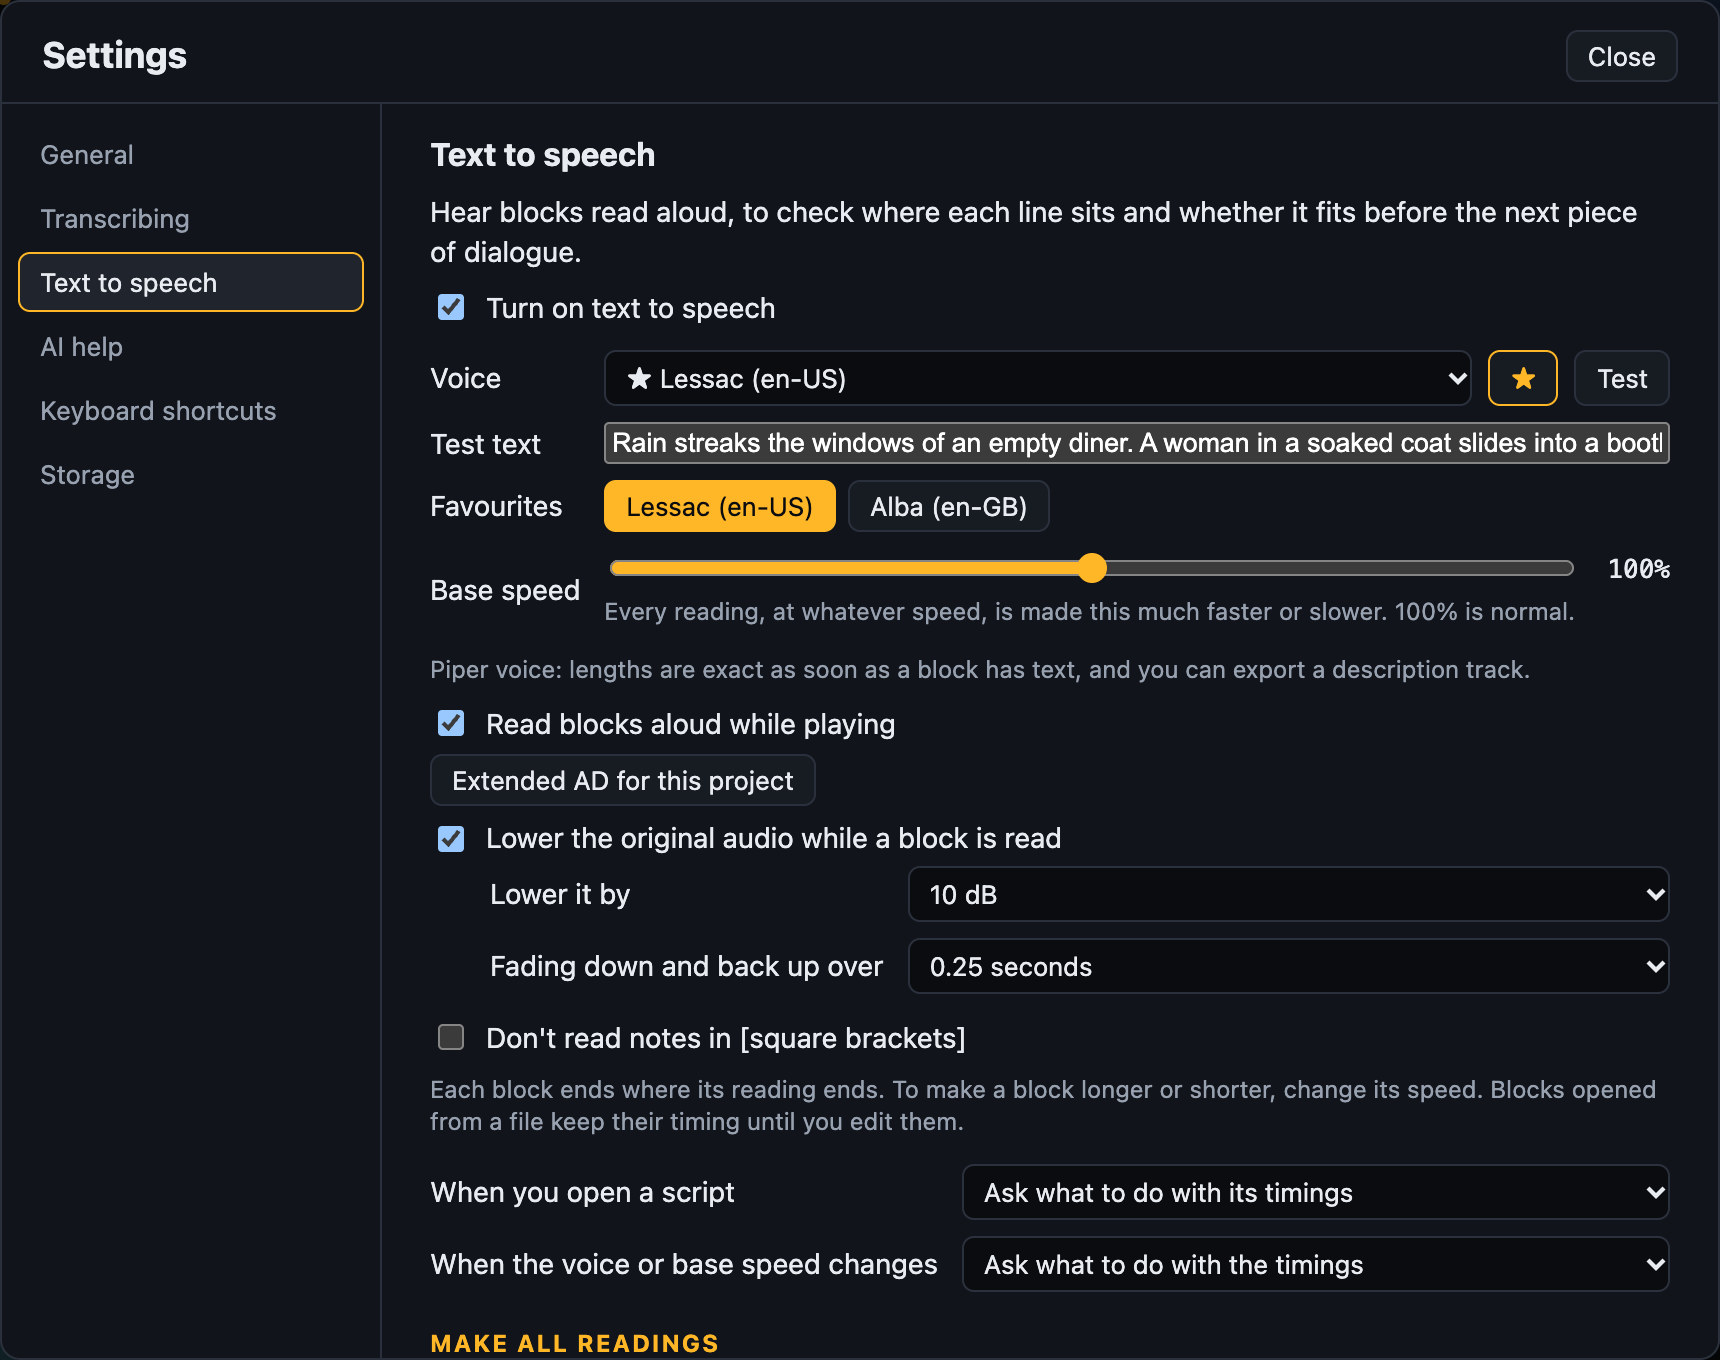
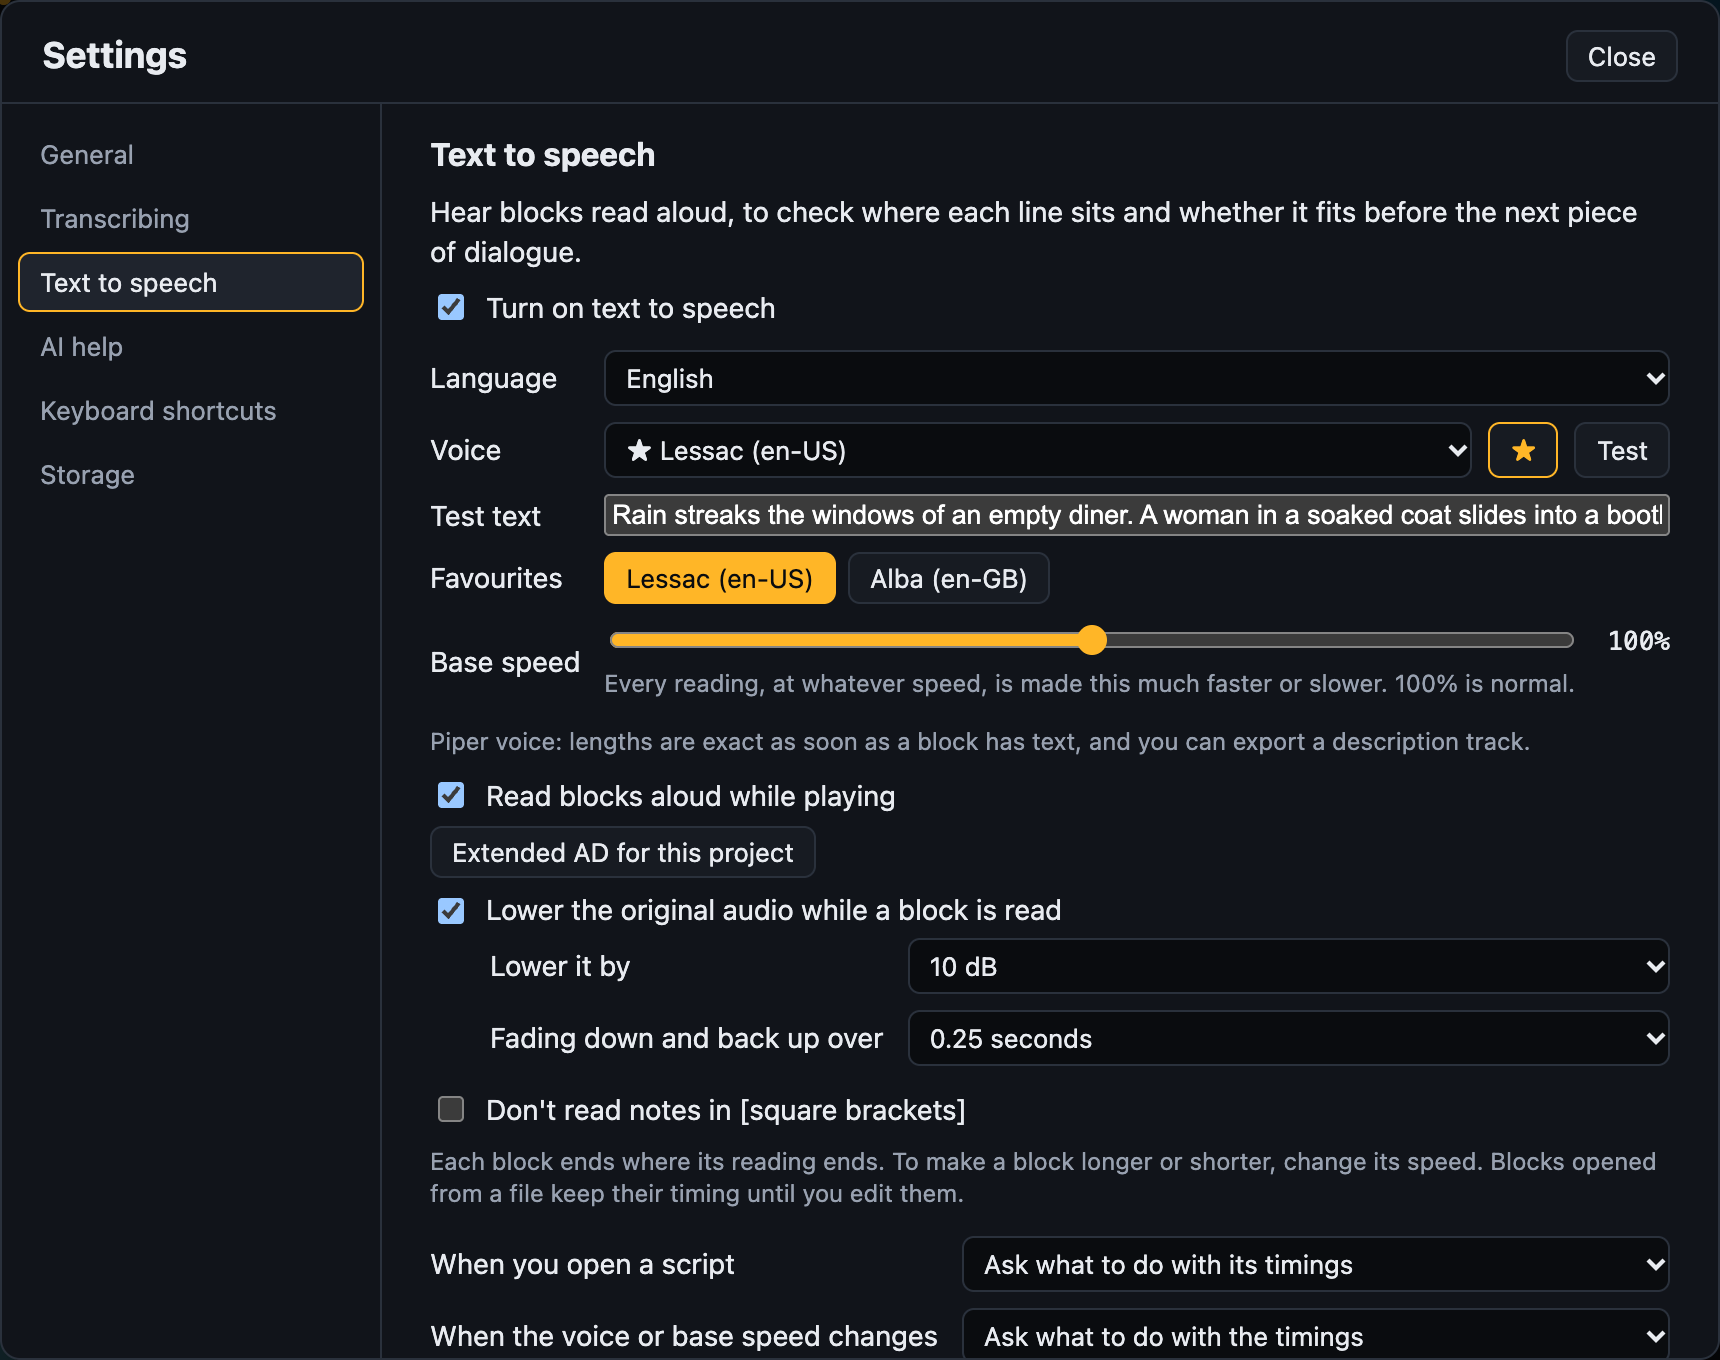
Filter voices by language, English first
A Language menu in Text to speech settings narrows the voice list and the
Piper downloads. It starts on English; favourites and the chosen voice
always show.

diff --git a/app/js/tts.js b/app/js/tts.js
@@ -200,6 +200,22 @@ export const toggleFavourite = (favs, uri) => (favs.includes(uri) ? favs.filter(
 // running, no Google or AWS key, online voices off, or not in this browser).
 export const favouriteVoices = (favs, voices) => favs.map((uri) => ({ uri, voice: voices.find((v) => v.voiceURI === uri) || null }));
 
+// A voice's language, without its country: "en" for en-GB and en_US.
+export const baseLang = (v) => String(v?.lang || '').toLowerCase().split(/[-_]/)[0];
+const langNames = (() => { try { return new Intl.DisplayNames(['en'], { type: 'language' }); } catch { return null; } })();
+export const languageName = (code) => { try { return langNames?.of(code) || code; } catch { return code; } };
+// The languages among some voices, for the Language menu: [{ code, name, count }], the
+// user's own first, then by name.
+export function voiceLanguages(voices, lang = 'en') {
+  const mine = String(lang).toLowerCase().split(/[-_]/)[0];
+  const counts = new Map();
+  for (const v of voices) { const c = baseLang(v); if (c) counts.set(c, (counts.get(c) || 0) + 1); }
+  return [...counts].map(([code, count]) => ({ code, name: languageName(code), count }))
+    .sort((a, b) => (b.code === mine) - (a.code === mine) || a.name.localeCompare(b.name));
+}
+// Voices in a language ('' for all). The one chosen stays, so the menu can still show it.
+export const inLanguage = (voices, code, keep = '') => (code ? voices.filter((v) => baseLang(v) === code || v.voiceURI === keep) : voices);
+
 // Voices that make their readings as audio, Piper's, Kokoro's, Google's and Polly's: lengths are
 // exact, and a description track can be exported.
 export const makesAudio = (v) => !!(v?.piper || v?.kokoro || v?.google || v?.polly);
@@ -424,7 +440,7 @@ export const LOUDNESS = {
   online: { lufs: -16, ceiling: -1 }, // podcasts and the web
   streaming: { lufs: -14, ceiling: -1 }, // streaming services
 };
-const DEFAULTS = { on: false, voice: '', base: 1, live: true, duck: true, skipNotes: false, onImport: 'ask', onChange: 'ask', online: false, cps: {}, mix: 0, favourites: [], sample: null, trackAs: 'wav', mixAs: 'wav', dipDb: 10, dipFade: 0.25, loudness: '', stems: false, mixInto: '' };
+const DEFAULTS = { on: false, voice: '', base: 1, live: true, duck: true, skipNotes: false, onImport: 'ask', onChange: 'ask', online: false, cps: {}, mix: 0, favourites: [], language: 'en', sample: null, trackAs: 'wav', mixAs: 'wav', dipDb: 10, dipFade: 0.25, loudness: '', stems: false, mixInto: '' };
 const $ = (id) => document.getElementById(id);
 
 export const tts = {
@@ -785,8 +801,10 @@ function renderWeb() {
   if (!HOSTED || !webPiper.offered) return;
   const sel = $('ttsWebVoice');
   // Voices in the user's language first, as with the container.
-  const offered = pickVoices(piperVoiceList(webPiper.offered), { lang: navigator.language || 'en' });
-  const keep = sel.value || tts.voice.replace(/^piper:/, '') || offered[0]?.piper;
+  const every = pickVoices(piperVoiceList(webPiper.offered), { lang: navigator.language || 'en' });
+  const keep0 = sel.value || tts.voice.replace(/^piper:/, '');
+  const offered = inLanguage(every, shownLanguage(), 'piper:' + keep0);
+  const keep = [...offered].some((v) => v.piper === keep0) ? keep0 : offered[0]?.piper;
   sel.textContent = '';
   for (const v of offered) {
     const o = document.createElement('option');
@@ -1287,7 +1305,8 @@ export function speak(text, { id = null, manual = false, silent = false, speed =
 }
 
 // Fills a voice menu (the panel's, or the welcome wizard's) with the voices on offer.
-export function fillVoiceSelect(sel, selected = currentVoice()?.voiceURI) {
+// language: only voices in it (the panel's Language menu); favourites are always shown.
+export function fillVoiceSelect(sel, selected = currentVoice()?.voiceURI, { language = '' } = {}) {
   voices = allowed();
   sel.textContent = '';
   // Favourites first, so they're at hand at the top of a long list. They're also in their
@@ -1304,9 +1323,12 @@ export function fillVoiceSelect(sel, selected = currentVoice()?.voiceURI) {
     }
     sel.append(g);
   }
-  for (const [label, list] of groupVoices(voices)) {
+  for (const [label, all] of groupVoices(voices)) {
     const online = label.startsWith('Online'), google = label.startsWith('Google');
     if (online && !tts.online) continue;
+    const list = inLanguage(all, language, selected);
+    // Filtered out entirely: leave the group out, rather than saying none are installed.
+    if (all.length && !list.length) continue;
     const g = document.createElement('optgroup');
     const away = (online || google) && navigator.onLine === false; // they can't be reached
     g.label = away ? `${google ? 'Google Cloud' : 'Online'}: unavailable while you’re offline` : label;
@@ -1394,8 +1416,23 @@ function renderFavourites() {
   }));
 }
 
+// The Language menu: every language among the voices here and the Piper voices on offer.
+const shownLanguage = () => (typeof tts.language === 'string' ? tts.language : 'en');
+function fillLanguages() {
+  const sel = $('ttsLang');
+  const all = [...allowed().filter((v) => tts.online || !browserOnline(v)),
+    ...(HOSTED && webPiper.offered ? piperVoiceList(webPiper.offered) : [])];
+  const seen = new Set();
+  const list = voiceLanguages(all.filter((v) => !seen.has(v.voiceURI) && seen.add(v.voiceURI)), navigator.language || 'en');
+  sel.replaceChildren(new Option('All languages', ''), ...list.map((l) => new Option(l.name, l.code)));
+  // A language whose voices have gone (Piper stopped, say) stays chosen, so it comes back.
+  if (tts.language && !list.some((l) => l.code === tts.language)) sel.add(new Option(languageName(tts.language), tts.language));
+  sel.value = shownLanguage();
+}
+
 function fillVoices() {
-  fillVoiceSelect($('ttsVoice'), shownVoice());
+  fillLanguages();
+  fillVoiceSelect($('ttsVoice'), shownVoice(), { language: shownLanguage() });
   renderFavourites();
   renderApply();
   $('ttsNoVoices').hidden = !!voices.length || !anyVoices();
@@ -1549,6 +1586,12 @@ export function initTts(h) {
   const set = (k, v) => { tts[k] = v; save(); render(); hooks.changed(); warmUp(); };
   $('ttsOn').addEventListener('change', (e) => { if (!e.target.checked) stop(); set('on', e.target.checked); });
   $('ttsVoice').addEventListener('change', (e) => pickVoice(e.target.value));
+  $('ttsLang').addEventListener('change', (e) => {
+    tts.language = e.target.value;
+    save();
+    fillVoices();
+    renderWeb();
+  });
   $('ttsApply').addEventListener('click', () => { if (picked) changeReading('voice', picked); });
   $('ttsFav').addEventListener('click', () => {
     const cur = shownVoice();

diff --git a/app/index.html b/app/index.html
@@ -866,6 +866,8 @@ docker compose up -d --build</code></pre>
     <label class="updopt"><input type="checkbox" id="ttsOn"> Turn on text to speech</label>
     <div id="ttsBody" class="ttsbody">
       <div class="ttsgrid">
+        <label for="ttsLang">Language</label>
+        <select id="ttsLang" data-tip="Show only voices in this language. Your favourites are always shown"></select>
         <label for="ttsVoice">Voice</label>
         <div class="ttsvoice"><select id="ttsVoice"></select>
           <button id="ttsFav" class="favstar" aria-pressed="false" aria-label="Favourite voice">☆</button>

diff --git a/Guides/WRITING.md b/Guides/WRITING.md
@@ -9,6 +9,8 @@ speech** and tick **Turn on text to speech**. `TTS` shows under the video while 
 
 - **Pick a voice,** and click **Test** to hear it read the **Test text**. Nothing changes
   until you click **Apply**, so you can try as many as you like.
+- **Language:** only English voices show at first. Pick another language, or **All
+  languages**. It narrows the **Natural voices** downloads too. Favourites always show.
 - **Favourites:** click ☆ beside a voice to pin it to the top of the list, with a button
   for one-click switching. Click ★ to unpin it.
 
